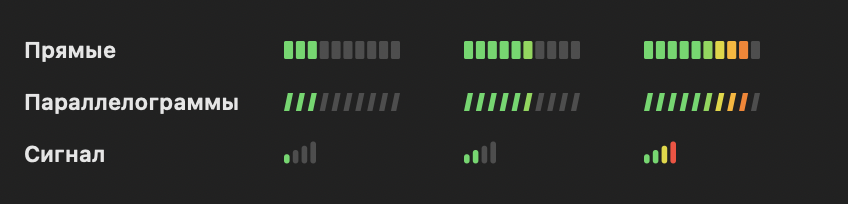
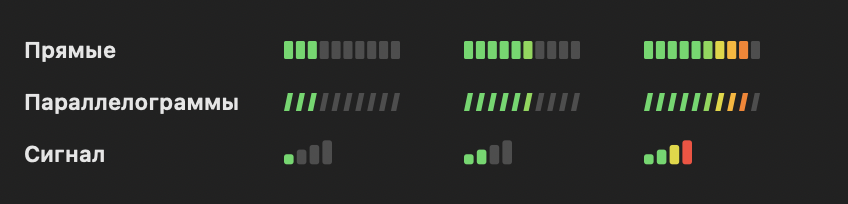
Сигнал крупнее: толстые столбики
- Ширина сигнала h*2.0 (толстые столбики вместо тонких) — больше визуального веса
- Высота 11→12; вертикальный центр сохранён, верхний столбик не торчит над цифрами

Changed region(s): [[0.7665, 0.6765, 0.8278, 0.8235], [0.5519, 0.6765, 0.6132, 0.8235], [0.3373, 0.6765, 0.3986, 0.8235]]

diff --git a/ClaudeBar.swift b/ClaudeBar.swift
@@ -164,7 +164,7 @@ func drawSignal(_ rect: NSRect, _ frac: CGFloat, dark: Bool, mono: Bool) {
 // Естественная ширина шкалы под форму: сегменты широкие, сигнал компактный.
 func shapeWidth(_ shape: Int, _ h: CGFloat) -> CGFloat {
     switch shape {
-    case 2: return max(16, h * 1.4)  // сигнал — компактный кластер, как на iPhone
+    case 2: return h * 2.0           // сигнал — толстые столбики, как на iPhone
     default: return 58               // сегменты (10 блоков)
     }
 }
@@ -173,7 +173,7 @@ func shapeWidth(_ shape: Int, _ h: CGFloat) -> CGFloat {
 func shapeHeight(_ shape: Int, single: Bool) -> CGFloat {
     if !single { return 6 }
     switch shape {
-    case 2: return 11     // сигнал (самый высокий столбик не должен «торчать» выше цифр)
+    case 2: return 12     // сигнал (крупнее, но верхний столбик не «торчит» над цифрами)
     default: return 9     // сегменты
     }
 }